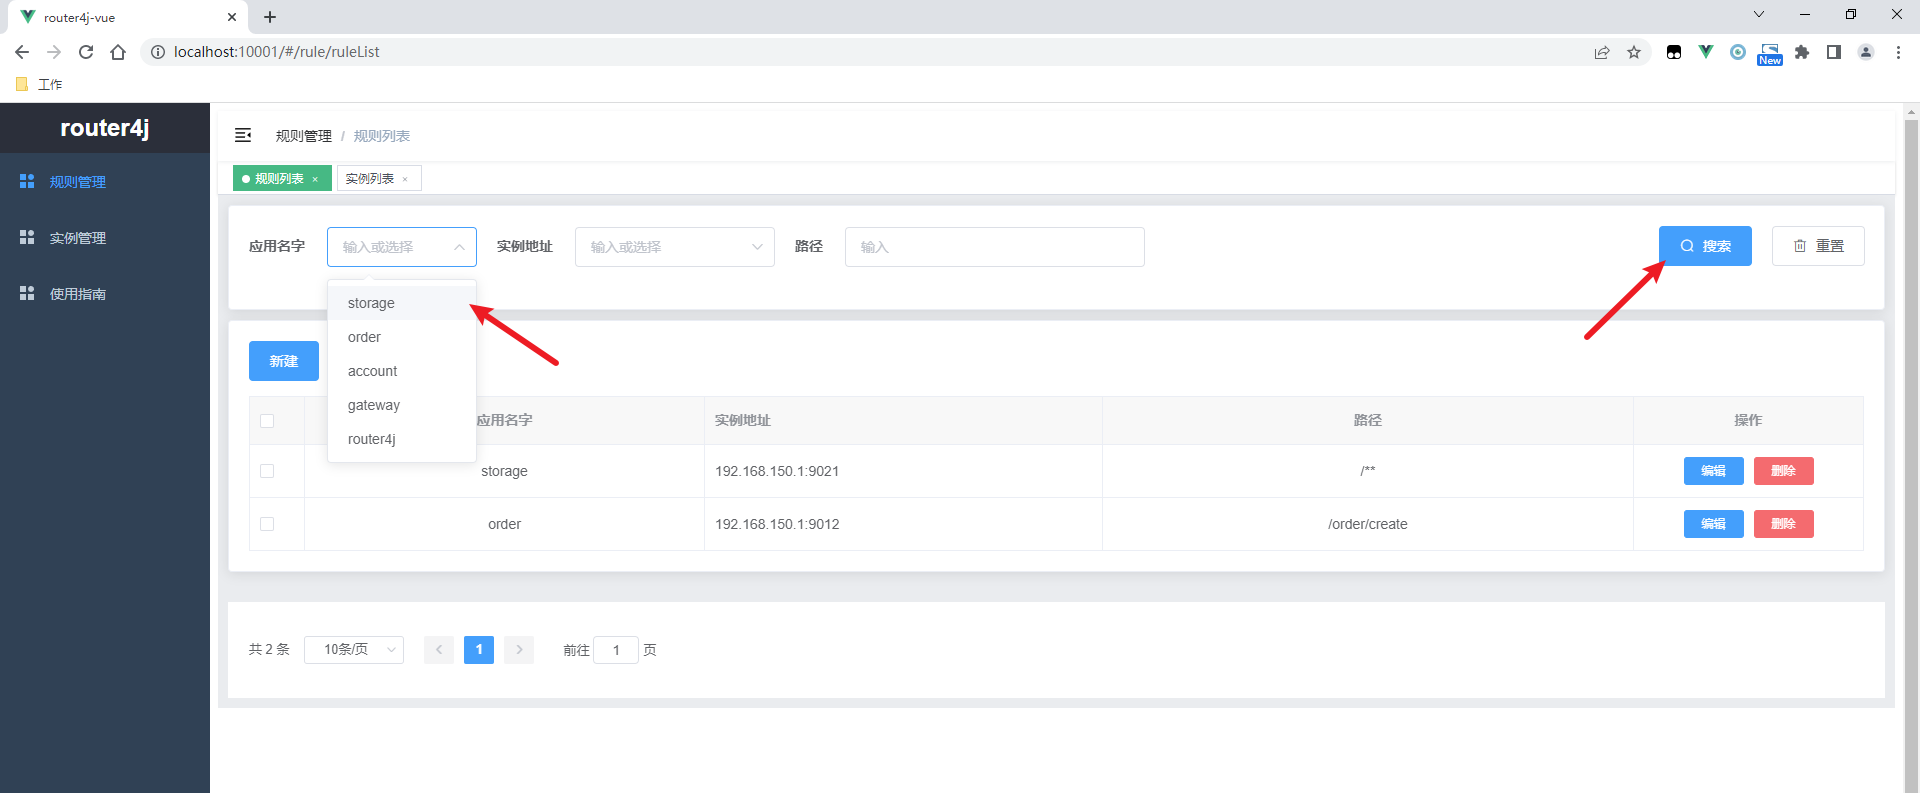
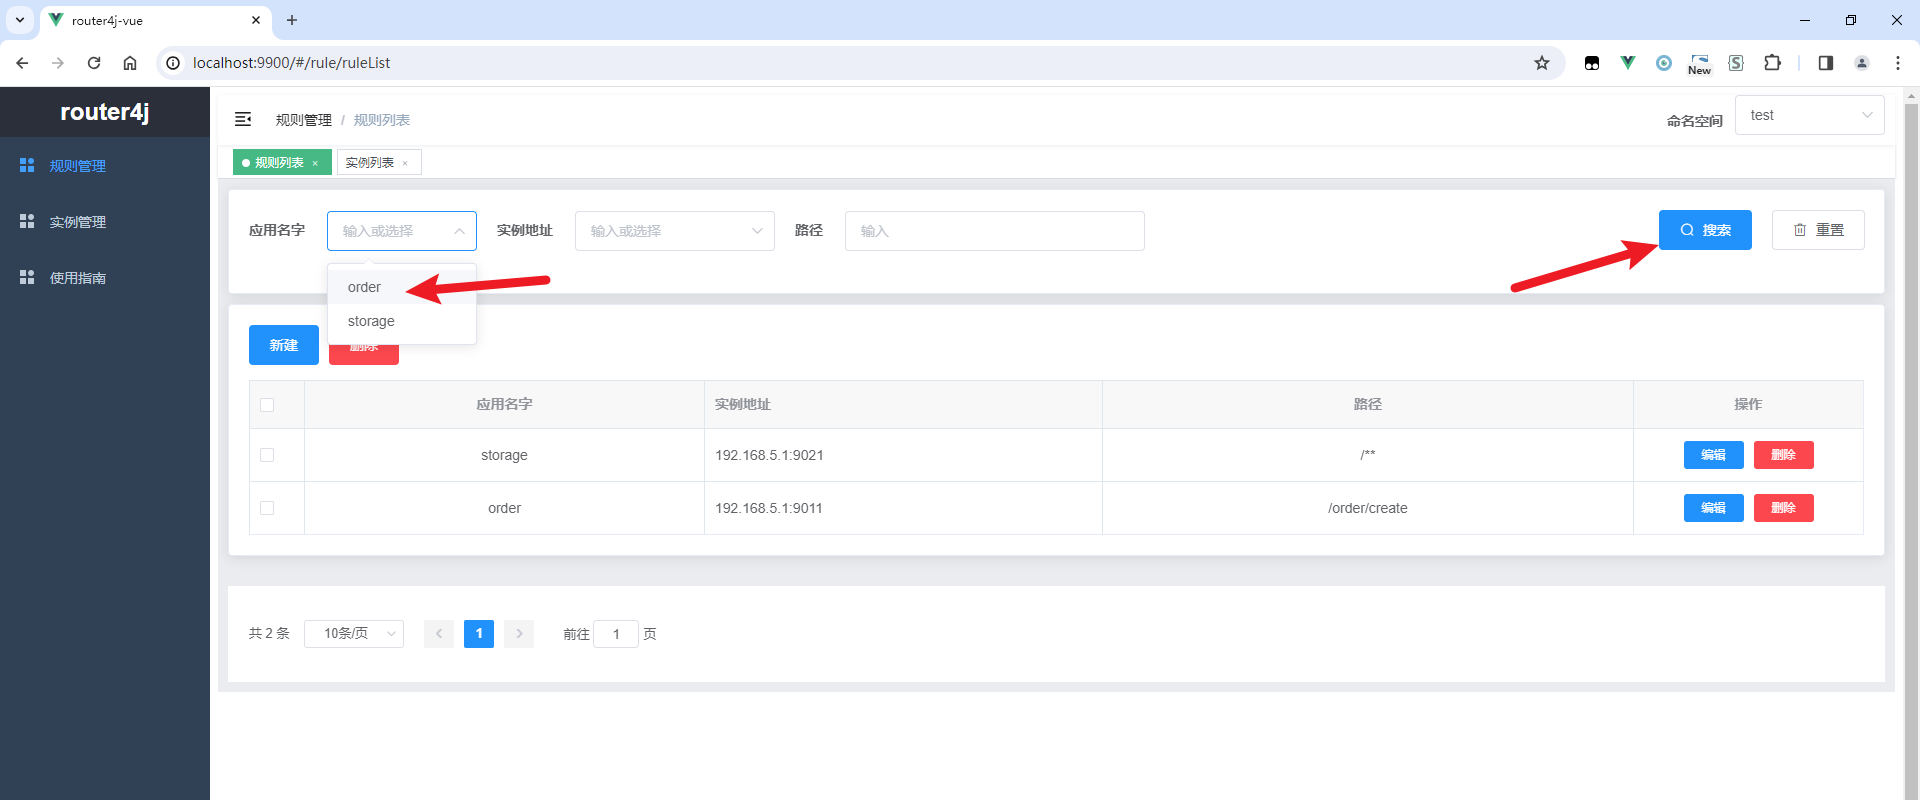
完善README

diff --git a/README.md b/README.md
@@ -1,170 +1,249 @@
-# 前言
+
+
+#  前言
+
 本文介绍Java的动态路由中间件：router4j。router4j用于SpringCloud项目，它可以将某个url请求路由到指定的机器上，也可以将所有请求强制转到指定机器。
 
- **问题描述** 
+**问题描述**
 
 Java后端在开发SpringCloud项目时如果同一个应用起了多个实例，会遇到以下问题：
-1. 无法将指定url请求强制转到个人电脑。这样会导致难以打断点调试。如果是设置了应用的所有请求都到我的电脑，那么我在调试时其他接口无法使用。
-2. 无法将指定的feign的url请求强制转到个人电脑。
-3. 如果有人打了断点调试，很可能影响测试环境。因为网关的请求和feign请求还是会经常请求到打了断点的那个电脑。
+
+1.  无法将指定url请求强制转到个人电脑。这样会导致难以打断点调试；如果是设置了应用的所有请求都到我的电脑，那么我在调试时其他接口无法使用。
+1.  无法将指定的feign的url请求强制转到个人电脑。
+1.  如果有人打了断点调试，很可能影响测试环境，因为网关的请求和feign请求还是会经常请求到打了断点的那个电脑。
 
 本文介绍的router4j可以解决这个问题，是我个人写的中间件。它可以设置将指定的url的请求路由到指定的机器。
 
- **官网网址** 
-- 官网文档：[router4j官网](https://www.yuque.com/knifeblade/opensource/router4j) （首先在官网更新，不定时同步到[CSDN博客](https://knife.blog.csdn.net/article/details/135762839 "CSDN博客")）
-- github：https://github.com/knife-blade/router4j
-- gitee：https://gitee.com/knifeedge/router4j
+**官网网址**
+
+官网文档：[router4j官网](https://www.yuque.com/knifeblade/opensource/router4j "router4j官网")（首先在官网更新，不定时同步到[CSDN博客](https://knife.blog.csdn.net/article/details/126930621 "CSDN博客")）
+
+github：[https://github.com/knife-blade/router4j](https://github.com/knife-blade/router4j "https://github.com/knife-blade/router4j")
+
+gitee：[https://gitee.com/knifeedge/router4j](https://gitee.com/knifeedge/router4j "https://gitee.com/knifeedge/router4j")
 
 # 一、简介
+
 ## 1.1 概述
-router4j是一个动态路由的平台，用于提高Java后端开发和调试效率。
+
+router4j是一个动态路由的中间件，用于提高Java后端开发和调试效率。
 
 使用router4j，可以将某个url请求路由到指定的机器上，只需在可视化页面上将path绑定到应用实例的ip和端口上即可。
 
 router4j也支持将所有请求强制转到指定机器，所以也可以用于线上不停机更新应用。
+
 ## 1.2 特性
-- 简单：支持通过Web页面对任务进行CRUD操作，操作简单，一分钟上手；
-- 无侵入：引入依赖即可，无需修改代码
-- 性能损耗小：路径的规则存放在Redis，速度很快，几乎没有性能损耗
-- 支持路径的路由：可以指定某个url路由到指定机器
-- 支持默认路由：如果url没有设置规则，则转发到设置的默认路由的实例
-- 支持强制路由：所有url强制路由到指定实例（无论是否设置了规则）
-- 支持网关：支持网关的请求转发
-- 支持feign：支持feign的请求转发
-- 支持实例运行状态查看：支持查看实例的运行状态
+
+-   **简单**：支持通过Web页面操作，操作简单，一分钟上手；
+-   **无侵入**：引入依赖即可，无需修改代码
+-   **性能损耗小**：路径的规则存放在Redis，速度很快，几乎没有性能损耗
+-   **支持路径的路由**：可以指定某个url路由到指定机器
+-   **支持默认路由**：如果url没有设置规则，则转发到设置的默认路由的实例
+-   **支持强制路由**：所有url强制路由到指定实例（无论是否设置了规则）
+-   **支持网关**：支持网关的请求转发
+-   **支持feign**：支持feign的请求转发
+-   **支持实例运行状态查看**：支持查看实例的运行状态
 
 ## 1.3 支持的框架
-- 网关
-	- gateway（已支持）
-	- zuul（待支持）
-- SpringCloud
-	- loadbalancer（已支持）（SpringCloud2020及之后的版本）
-	- ribbon（待支持）
-	
+
+-   网关
+
+	-   gateway（已支持，已测试）
+	-   zuul（待支持）
+
+-   SpringCloud
+
+	-   loadbalancer（已支持，已测试）（SpringCloud2020及之后的版本）
+	-   ribbon（待支持）
+
+-   注册中心
+
+	-   Nacos（已支持，已测试）
+	-   Eureka（已支持，未测试）
+
 ## 1.4 框架结构
-在可视化页面的配置会保存到Redis，请求进来时，会根据Redis中的配置路由到指定的实例。
+
+1.在可视化页面进行配置，将url与实例（ip加端口）关联起来
+
+2.前端请求进来时：gateway会使用本框架的全局过滤器，会根据这个url到Redis中的配置中查询，将url路由到指定的实例（ip加端口）
+
+3.调用feign时：feign会使用本框架的负载均衡器，会根据这个url到Redis中的配置中查询，将url路由到指定的实例（ip加端口）
+
 ## 1.5 下载
-github：https://github.com/knife-blade/router4j
 
-gitee：https://gitee.com/knifeedge/router4j
+github：[https://github.com/knife-blade/router4j](https://github.com/knife-blade/router4j "https://github.com/knife-blade/router4j")
 
-maven：（待上传）
+gitee：[https://gitee.com/knifeedge/router4j](https://gitee.com/knifeedge/router4j "https://gitee.com/knifeedge/router4j")
+
 # 二、快速入门
-- router4j-server：router4j的控制台（后端）
-- router4j-vue：router4j的控制台（前端）
-- router4j-example：示例程序
 
-## 2.1 启动控制台
-**1.启动后端**
+## 2.1 添加依赖
 
-启动router4j-server
+备注：本文依赖已上传到maven中央仓库、maven阿里云镜像。
 
-**2.启动前端**
+**gateway网关和应用都添加依赖**
 
-启动router4j-vue
-
-## 2.2 添加依赖
-**1.网关添加依赖**
-router4j-example/gateway
-```xml
-    <dependency>
-        <groupId>com.suchtool</groupId>
-        <artifactId>router4j-client-gateway-boot-starter</artifactId>
-        <version>1.0.0</version>
-    </dependency>
 ```
-	
-**2.应用添加依赖（用于feign）**
-router4j-example/business/order/order-core
-```xml
 <dependency>
-  <groupId>com.suchtool</groupId>
-  <artifactId>router4j-client-spring-boot-starter</artifactId>
-  <version>1.0.0</version>
+    <groupId>com.suchtool</groupId>
+    <artifactId>router4j-client-spring-boot-starter</artifactId>
+    <version>1.0.0</version>
 </dependency>
 ```
-## 2.3 配置
-网关和应用都要添加如下配置：
-```bash
-router4j:
-  redis:
-    host: localhost
-    password: 222333
-    port: 6379
-    # database: 0
-    # ssl: false
-    # timeout: 3s
-  rule:
-    enable: true
-    # pathPatternPrefix: "router4j:rule:pathPattern"
-    # defaultInstancePrefix: "router4j:rule:defaultInstance"
-  # instruction:
-  #   cacheKey: "router4j:instruction"
+
+此依赖会自动识别是网关还是应用，自动启用动态路由策略。
+
+## 2.2 配置
+
+网关和应用都要添加如下配置（放到application.yml等配置文件即可）：
+
 ```
-## 2.4 开始使用
-- 启动router4j服务：Redis、router4j-server、router4j-vue
-- 启动示例服务（router4j-example路径）：Nacos、geteway、业务应用（business路径）（2个order，2个storage，1个account）。
-- 业务场景：创建订单，减库存、减账户余额。请求order的controller，order分别用feign调用storage和account。
-- 需求：将网关请求order的/order/create转到192.168.150.1:9011这个实例，将storage的feign转到192.168.150.1:9021这个实例。
+suchtool:
+  router4j:
+    redis:
+      host: localhost
+      password: 222333
+      port: 6379
+      # database: 0
+      # ssl: false
+      # timeout: 3s
+    rule:
+      enable: true
+      # pathPatternPrefix: "router4j:rule:pathPattern"
+      # defaultInstancePrefix: "router4j:rule:defaultInstance"
+```
 
-**1.配置网关路径的路由**
+## 2.3 启动注册中心和Redis
 
-访问：http://localhost:10001/
+启动Nacos、Redis。本处省略。
+
+## 2.4 启动router4j控制台
+
+**1.启动控制台**
+
+启动router4j-server（Java程序）。可通过IDEA或者java -jar启动（后期会提供docker镜像）。
+
+本处我使用java命令启动：
+
+```
+java -jar router4j-server-1.0.0.jar
+```
+
+运行结果如下：
+
+![router4j-server运行结果](doc/2-4-1.png)
+
+
+## 2.5 开始使用
+
+启动示例服务：gateway、业务应用（2个order，2个storage，1个account）。
+
+业务场景：创建订单，减库存、减账户余额。请求order的controller，order分别用feign调用storage和account。
+
+需求：将网关请求order的/order/create转发到192.168.5.1:9011这个实例，将对storage的所有请求转发到192.168.5.1:9021这个实例。
+
+**1.配置路径的路由规则**
+
+访问router4j控制台：[http://localhost:9900](http://localhost:9900/ "http://localhost:9900")
 
 在“规则管理”中配置路径与实例的绑定：
-![配置网关路径的路由](doc/2-4-1.png)
 
-**2.配置feign路径的路由**
-![配置feign路径的路由](doc/2-4-2.png)
+![绑定路径与实例](doc/2-5-1.png)
 
-**3.请求接口测试**
+**2.请求接口测试**
 
-postman访问（请求10次）：http://localhost:6001/order/order/create/?userId=1&productId=1&count=10&money=100
+postman访问（请求10次）：[http://localhost:6001/order/order/create/?userId=1&productId=1&count=10&money=100](http://localhost:6001/order/order/create/?userId=1&productId=1&count=10&money=100 "http://localhost:6001/order/order/create/?userId=1&productId=1&count=10&money=100")
 
 结果：
-order：（全部都请求到了指定的实例192.168.150.1:9012）
-![请求接口测试-1](doc/2-4-3-1.png)
 
-storage：（全部都请求到了指定的实例192.168.150.1:9021）
-![请求接口测试-1](doc/2-4-3-2.png)
+order：（全部都请求到了指定的实例192.168.5.1:9011）
+
+![全部请求到指定的order实例](doc/2-5-2.png)
+
+storage：（全部都请求到了指定的实例192.168.5.1:9021）
+
+![全部请求到指定的storage实例](doc/2-5-3.png)
+
+**3.测试默认的路由策略**
+
+上边介绍了本组件的作用，如果没有使用router4j去指定，请求会被负载均衡到不同的机器上。
+
+下边我把规则管理里的配置给删掉：
+
+![删除规则配置](doc/2-5-4.png)
+
+请求10次进行测试：
+
+网关请求到order，每个order实例收到了5次请求：
+
+![order实例1收到5次请求](doc/2-5-5.png)
+
+![order实例2收到5次请求](doc/2-5-6.png)
+
+order通过feign请求到storage，每个storage实例收到了5次请求
+
+![storage实例1收到5次请求](doc/2-5-7.png)
+
+![storage实例2收到5次请求](doc/2-5-8.png)
 
 # 三、使用详解
 
 ## 3.1 规则管理
-底层是基于Spring自身的AntPathMatcher来实现的。
+
+底层是基于Spring自身的AntPathMatcher来实现的，其规则见：[此文](https://knife.blog.csdn.net/article/details/120678900 "此文")
 
 ### 3.1.1 新建规则
-支持下拉框选择和手动输入
+
+支持手动输入
+
 ![新建规则](doc/3-1-1.png)
 
+
 ### 3.1.2 查找规则
+
 支持下拉框选择和手动输入
+
 ![查找规则](doc/3-1-2.png)
 
 ### 3.1.3 删除规则
+
 支持单个删除（绿色箭头所指）和批量删除（红色箭头所指）。
+
 ![删除规则](doc/3-1-3.png)
 
 ## 3.2 实例管理
-### 3.2.1 默认路由
-所有实例列表
-![所有实例列表](doc/3-2-1-1.png)
 
-设置为默认路由
-如果url没有设置规则，则转发到设置的默认路由的实例。
+### 3.2.1 默认路由
+
+**所有实例列表**
+
+对于Nacos，有命名空间，在右上角选择命名空间后，再点击一下搜索，即可展示所有的实例
+
+对于Eureka，右上角不会展示命名空间。
+
+![实例列表](doc/3-2-1_1.png)
+
+**设置为默认路由**
+
+默认路由的作用 **：** 如果url没有设置规则，则转发到设置的默认路由的实例。
+
 支持单个设置（绿色箭头）与批量设置（红色箭头）。
-![设置为默认路由](doc/3-2-1-2.png)
+
+![默认路由](doc/3-2-1_2.png)
 
 ### 3.2.2 强制路由
-所有url强制路由到指定实例（无论是否设置了规则）。
+
+**强制路由**的作用：所有url强制路由到指定实例（无论是否设置了规则）。
+
+注意：在选择强制路由后，默认路由也会自动被选中。
+
 支持单个设置（绿色箭头）与批量设置（红色箭头）。
+
 ![强制路由](doc/3-2-2.png)
 
 # 四、未来计划
-1. 发布0.0.1版本
-2. 支持某个路径配置的开启关闭
-3. 支持通过eureka获取实例信息
-4. 支持zuul网关
-5. 支持Ribbon（SpringCloud2020之前）
-6. 支持在配置中设置不启用router4j
-7. 写一个正式的router4j官网网站
+
+1.  支持某个路径配置的开启关闭
+1.  支持zuul网关
+1.  支持Ribbon（SpringCloud2020之前）
+1.  写一个正式的router4j官网网站
